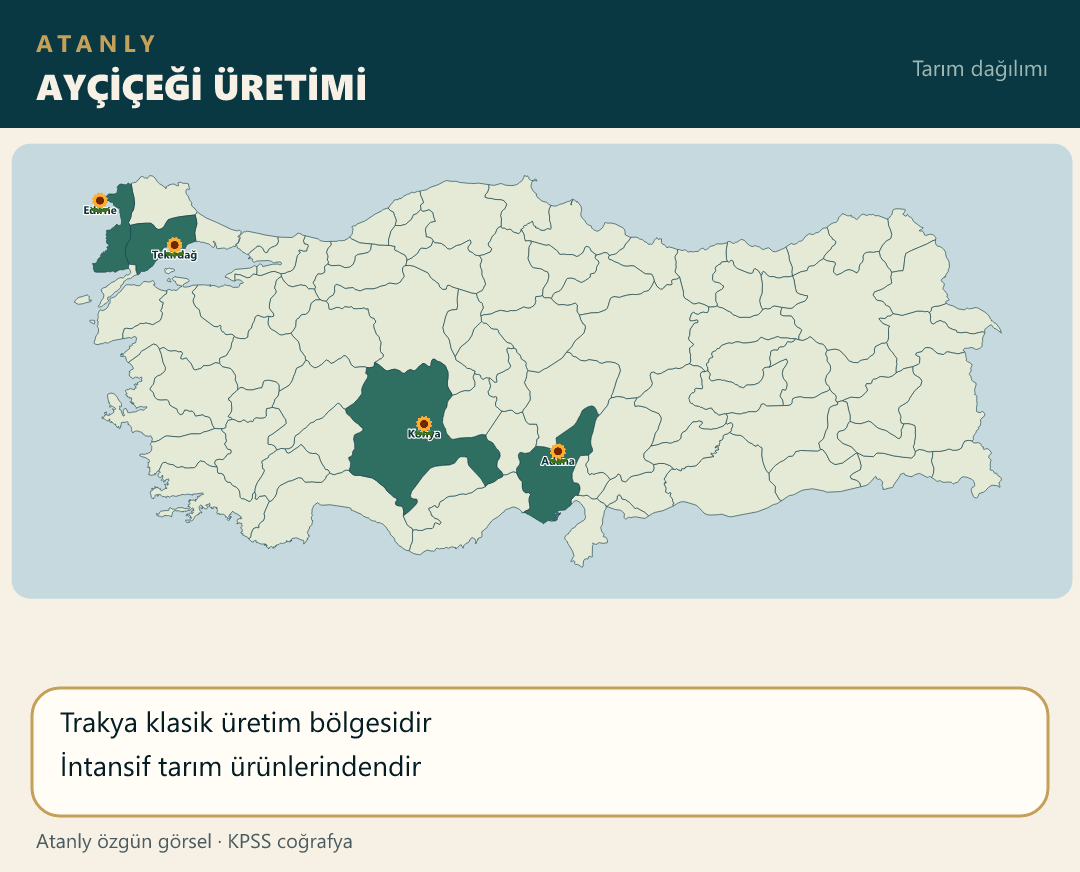
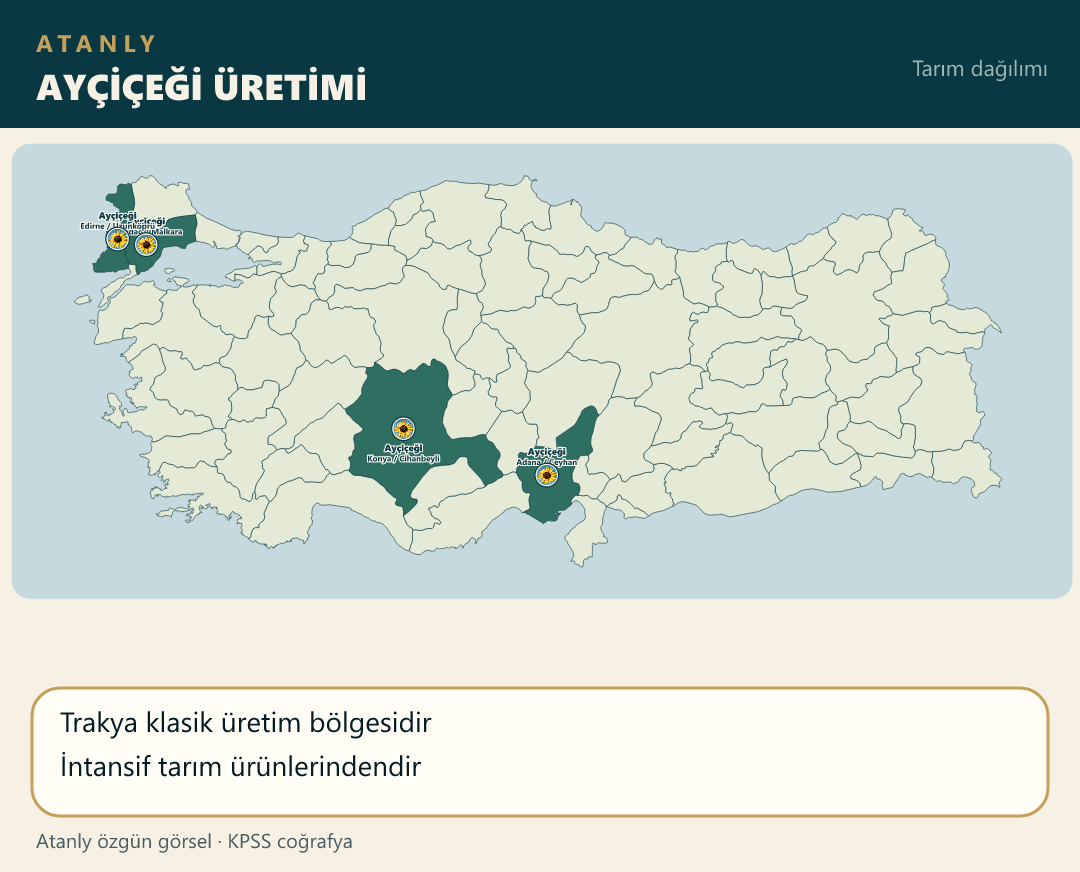
Place the sunflower photo on Trakya and inland producing provinces.

Changed region(s): [[0.0611, 0.2167, 0.1833, 0.3096], [0.3361, 0.4644, 0.4278, 0.5573], [0.4889, 0.4954, 0.55, 0.5573]]

diff --git a/scripts/build-atanly-maps.js b/scripts/build-atanly-maps.js
@@ -415,7 +415,7 @@ function topicIcon(file) {
         hashas: "poppy", incir: "fig", kayisi: "apricot", muz: "banana", anason: "anason",
         aspir: "aspir", susam: "seed", tutun: "leaf", yerfistik: "peanut", antepfistik: "antepfistik",
         kirmizimercimek: "lentil", turunc: "citrus", kanola: "canola", pirinc: "rice",
-        aycicek: "sunflower", findik: "hazelnut", cay: "tea", kenevir: "hemp",
+        aycicek: "aycicek", findik: "hazelnut", cay: "tea", kenevir: "hemp",
         kivrimdaglar: "fold-mtn", kirikdaglar: "fault-mtn", volkanikdaglar: "volcano",
         volkanikaraziler: "volcano", masifarazi: "rock", trplato: "plateau", trovlar: "plain",
         milliparklar: "park",
@@ -556,7 +556,14 @@ function main() {
         { file: "kenevir.jpg", title: "KENEVİR ÜRETİMİ", iller: ["Kastamonu", "Amasya", "Samsun"], facts: ["Devlet kontrolündedir", "Tohumuna çedene denir", "Ekime en çok izin Karadeniz’dedir"] },
         { file: "kanola.jpg", title: "KANOLA ÜRETİMİ", iller: ["Tekirdağ", "Edirne", "Kırklareli", "Konya"], facts: ["Trakya’nın Sarı Kızı olarak anılır", "Yağ oranı yüksektir"] },
         { file: "pirinc.jpg", title: "ÇELTİK / PİRİNÇ", iller: ["Edirne", "Samsun", "Balıkesir"], facts: ["Meriç boyları başta gelir", "Diğer ekim alanları Osmancık ve Tosya", "Üretim devlet kontrolündedir"] },
-        { file: "ay_cicek.jpg", title: "AYÇİÇEĞİ ÜRETİMİ", iller: ["Tekirdağ", "Konya", "Adana", "Edirne"], facts: ["Trakya klasik üretim bölgesidir", "İntansif tarım ürünlerindendir"] },
+        { file: "ay_cicek.jpg", title: "AYÇİÇEĞİ ÜRETİMİ", urun: "Ayçiçeği",
+            noktalar: [
+                { il: "Tekirdağ", ilce: "Malkara" },
+                { il: "Edirne", ilce: "Uzunköprü" },
+                { il: "Konya", ilce: "Cihanbeyli" },
+                { il: "Adana", ilce: "Ceyhan" }
+            ],
+            facts: ["Trakya klasik üretim bölgesidir", "İntansif tarım ürünlerindendir"] },
         { file: "findik.jpg", title: "FINDIK ÜRETİMİ", iller: ["Ordu", "Samsun", "Düzce", "Giresun", "Sakarya", "Trabzon", "Rize"], facts: ["Karadeniz birinci, Marmara ikinci sıradadır", "Türkiye dünya üretiminde 1. sıradadır", "Devirli tarım ürünüdür"] },
         { file: "cay.jpg", title: "ÇAY ÜRETİMİ", iller: ["Rize", "Trabzon", "Artvin", "Giresun"], facts: ["Tamamı Doğu Karadeniz’dedir", "Zihni Derin tarafından Batum’dan getirilmiştir", "Dünya üretiminde Türkiye 5. sıradadır"] }
     ];

diff --git a/notlar/cografya-18-not.js b/notlar/cografya-18-not.js
@@ -331,7 +331,7 @@ window.cografya_18_notlari = [
         </div>
         <!-- 🗺 HARİTA / RESİM ALANI -->
             <div class="mt-4 overflow-hidden rounded-xl border border-blue-200 dark:border-blue-700/50 bg-white dark:bg-slate-800 p-2">
-                <img src="./src/img/ay_cicek.jpg?v=9" alt="FINDIK Haritası" class="w-full h-auto rounded-lg object-contain" loading="lazy">
+                <img src="./src/img/ay_cicek.jpg?v=10" alt="AYÇİÇEĞİ Haritası" class="w-full h-auto rounded-lg object-contain" loading="lazy">
             </div>
     </div>
     `,

diff --git a/index.html b/index.html
@@ -116,7 +116,7 @@
     <script src="notlar/cografya-15-not.js?v=9"></script>
     <script src="notlar/cografya-16-not.js?v=3"></script>
     <script src="notlar/cografya-17-not.js?v=3"></script>
-    <script src="notlar/cografya-18-not.js?v=9"></script>
+    <script src="notlar/cografya-18-not.js?v=10"></script>
     <script src="notlar/cografya-19-not.js?v=14"></script>
     <script src="notlar/cografya-20-not.js?v=1"></script>
     <script src="notlar/cografya-21-not.js?v=4"></script>
